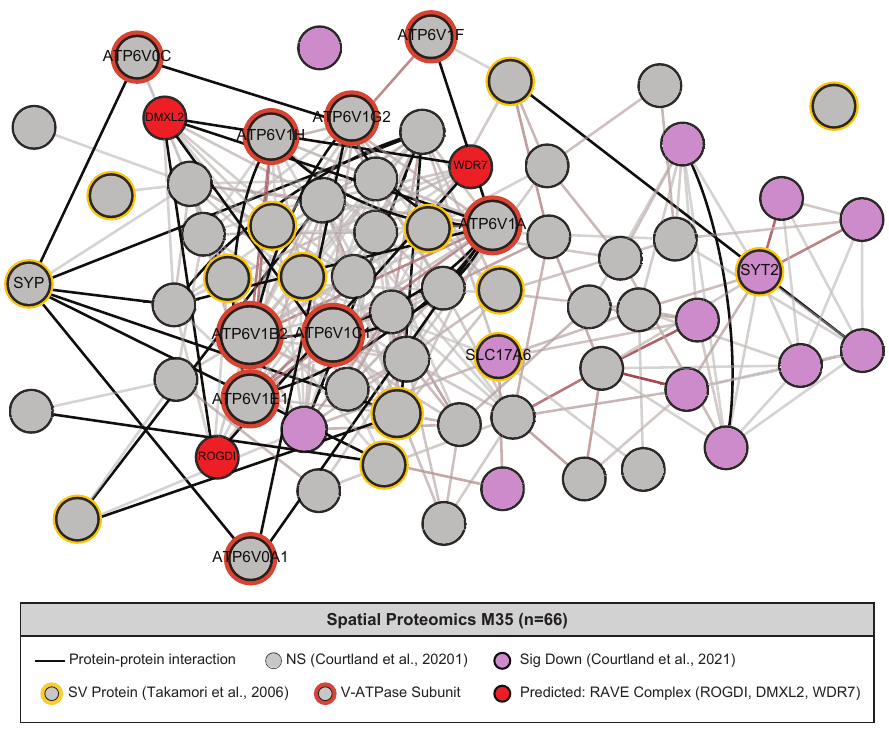
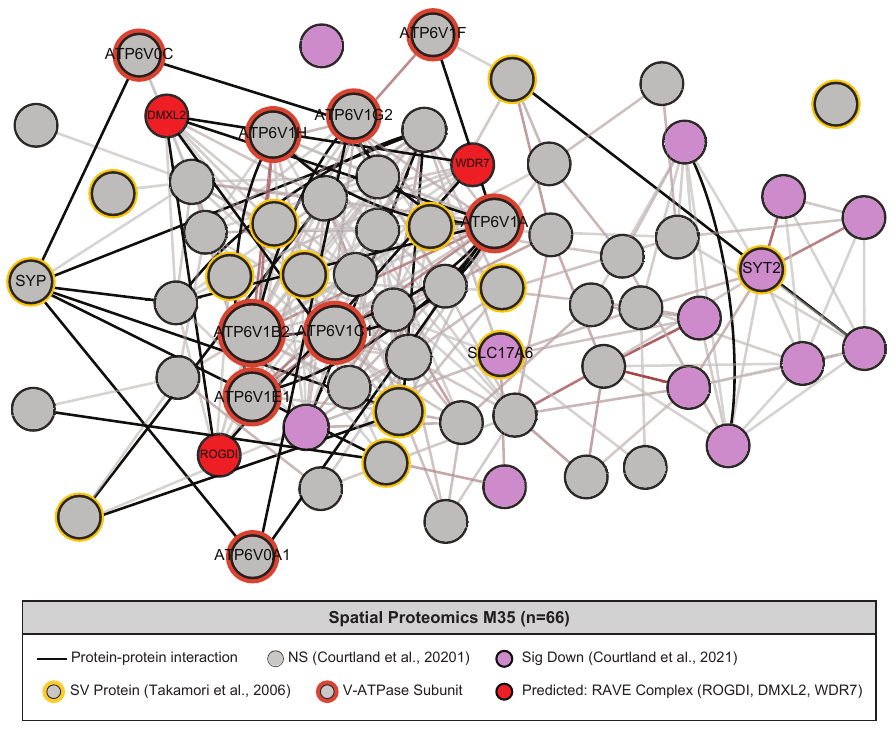
update

diff --git a/swip/index.html b/swip/index.html
@@ -90,6 +90,24 @@
 
 								</section>
 
+								<!-- background: fundamental technology -->
+								<section>
+										<h4>Proteomics: Identifying and Quantifying proteins in Complex Biological Preparations</h4>
+										<figure>
+												<img src="./graphics/ms-overview.png" alt="ms" style="width:90%">
+												<figcaption><small>Normalization &rarr; Protein Summarization &rarr; <u>Statistical Testing</u></small></figcaption>
+												<br>
+												<div class='foot-right'>
+														<a href="https://github.com/soderling-lab/tidyProt" target="_blank">soderling-lab/tidyProt</a>
+												</div>
+										</figure> 
+
+										<aside data-markdown class="notes" >
+												transition: proximity and spatial proteomics overview
+										</aside>
+
+								</section>
+
 								<!-- background: overview -->
 								<section>
 										<h4>Resolving Subcellular Space with Proximity and Spatial Proteomics</h4>
@@ -113,7 +131,7 @@
 										</figure> 
 										<br>
 										<div class='foot-right'>
-												SFARI ASD Genes: <a href="https://github.com/twesleyb/getPPIs" target="_blank">twesleyb/geneLists</a>
+												SFARI ASD Genes: <a href="https://github.com/soderling-lab/getPPIs" target="_blank">soderling-lab/geneLists</a>
 										</div>
 
 										<aside data-markdown class="notes" >
@@ -132,7 +150,7 @@
 										</figure> 
 										<br>
 										<div class='foot-right'>
-												<a href="https://bit.ly/3wO1CkG" target="_blank">Uezu, Kanak and Bradshaw <em>et al.</em>, 2016</a>
+												iPSD Proximity Proteome: <a href="https://bit.ly/3wO1CkG" target="_blank">Uezu, Kanak and Bradshaw <em>et al.</em>, 2016</a>
 										</div>
 
 										<aside data-markdown class="notes" >
@@ -141,27 +159,9 @@
 
 								</section>
 
-								<!-- background: fundamental technology -->
-								<section>
-										<h4>Proteomics: Identifying and Quantifying proteins in Complex Biological Preparations</h4>
-										<figure>
-												<img src="./graphics/ms-overview.png" alt="ms" style="width:90%">
-												<figcaption><small>Normalization &rarr; Protein Summarization &rarr; <u>Statistical Testing</u></small></figcaption>
-												<br>
-												<div class='foot-right'>
-														<a href="https://github.com/twesleyb/tidyProt" target="_blank">twesleyb/tidyProt</a>
-												</div>
-										</figure> 
-
-										<aside data-markdown class="notes" >
-												transition: WASHC4
-										</aside>
-
-								</section>
-
 								<!-- intro: WASHC4 -->
 								<section>
-										<h3>SWIP, a Strumpellin and WASH Interacting Protein</h3>
+										<h3>SWIP, a Strumpellin and WASH Interacting Protein (gene: WASHC4)</h3>
 										<figure>
 												<img src="./graphics/Swip.gif" alt="swip" style="width:50%">
 												<figcaption>Autosomal recessive inheritance of the SWIP<sup>P1019R</sup> mutation is associated with intellectual disability.</figcaption>
@@ -400,9 +400,9 @@
 
 								<!-- results: Lysosome Module -->
 								<section>
-										<h3>Disruption of a Lysosomal Protein Network</h3>
+										<h4>Disruption of a Lysosomal Protein Network</h4>
 										<figure>
-												<img src="./graphics/lysosome-2.png" alt="bioid" style="width:70%">
+												<img src="./graphics/lysosome-2.png" alt="bioid" style="width:80%">
 										</figure> 
 
 										<aside data-markdown class="notes" >
@@ -428,7 +428,7 @@
 								<section>
 										<h3>Disruption of an ER Stress Associated Module</h3>
 										<figure>
-												<img src="./graphics/m6.png" alt="m6" style="width:70%">
+												<img src="./graphics/m6.png" alt="m6" style="width:80%">
 												<figcaption>Increased ER stress proteins: e.g. HSPA5, PDIA3, PDIA4, PDIA6, and DNAJC3</figcaption>
 										</figure> 
 
@@ -442,7 +442,7 @@
 								<section>
 										<h3>Evidence of Neurodegeneration in SWIP<sup>P1019R</sup> Adult Motor Cortex</h3>
 										<figure>
-												<img src="./graphics/caspase.png" alt="caspase" style="width:50%">
+												<img src="./graphics/caspase.png" alt="caspase" style="width:60%">
 										</figure> 
 
 										<aside data-markdown class="notes" >
@@ -455,7 +455,7 @@
 								<section>
 										<h4>Decreased abundance of a Synapse Module</h4>
 										<figure>
-												<img src="./graphics/synapse-2.png" alt="synapse" style="width:75%">
+												<img src="./graphics/synapse-2.png" alt="synapse" style="width:80%">
 										</figure> 
 
 										<aside data-markdown class="notes" >
@@ -483,7 +483,7 @@
 								<section>
 										<h3>Motor Function Decline with Age</h3>
 										<figure>
-												<img src="./graphics/treadscan.png" alt="varpart" style="width:75%">
+												<img src="./graphics/treadscan.png" alt="varpart" style="width:100%">
 										</figure> 
 										<p><b>Not shown:</b> rotorod deficit, impaired fear conditioning</p>
 
@@ -538,8 +538,8 @@
 										<h2>Acknowledgments</h2>
 										<ul>
 												<li><b>Collaborator:</b> Dr. Jamie Courtland, MD, PhD</li>
-												<li><b>Thesis Lab:</b> Dr. Scott Soderling, PhD <em>et al.</em></li>
-												<li><b>Proteomics Core:</b> Greg Waitt <em>et al.</em></li>
+												<li><b>Thesis Lab:</b> Dr. Scott Soderling, PhD</li>
+												<li><b>Proteomics Core:</b> Greg Waitt and Erik Soderblom</li>
 												<li><b>Funding:</b> (NIH F31 5F31NS113738-03)</li>
 										</ul>
 								</section>
@@ -570,7 +570,7 @@
 										<h3>Rogdi, Rav2, and the RAVE Complex</h3>
 										<figure>
 												<img src="./graphics/rogdi-rav2.png" alt="rogdi-structure" style="width:50%">
-												<figcaption>Structural alignment of Rogdi and Reva2.</figcaption>
+												<figcaption>Structural alignment of Rogdi and Rav2.</figcaption>
 										</figure> 
 										<br>
 										<div class='foot-right'>
@@ -578,6 +578,14 @@
 										</div>
 								</section>
 
+								<!-- result: SV m38 -->
+								<section>
+										<h3>A SV Module Containing Rogdi</h3>
+										<figure>
+												<img src="./graphics/m35.png" alt="m35" style="width:65%">
+												<figcaption><b>Hypothesis:</b> Rogdi localizes to presynaptic SV.</figcaption>
+										</figure> 
+								</section>
 
 								<!-- edgeR GOF -->
 								<section>
